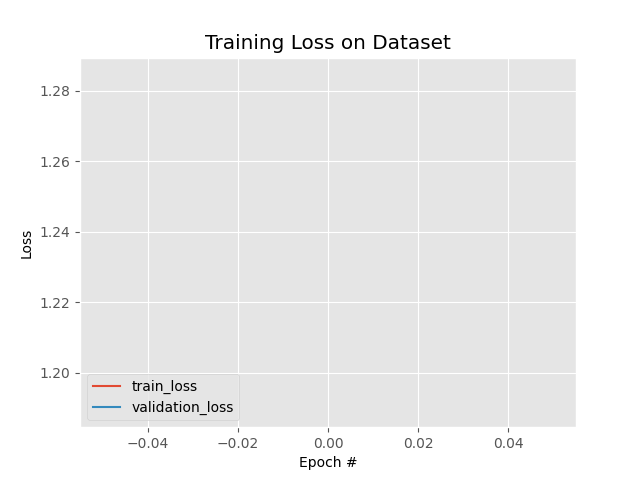
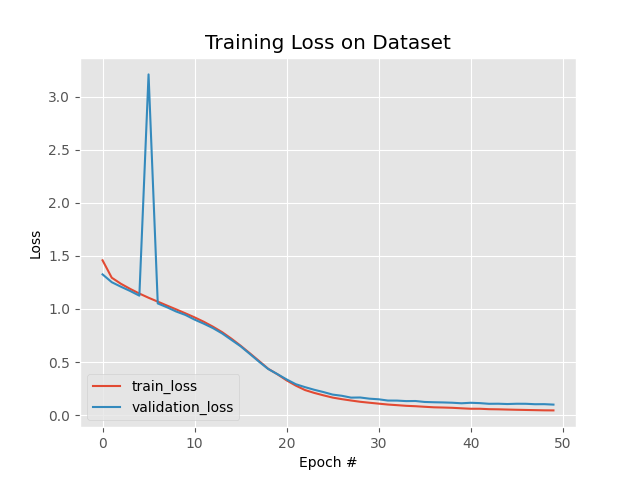
have two working models and test methods

diff --git a/test.py b/test.py
@@ -104,7 +104,10 @@ def write_metrics_to_file(metrics, len_test_x, json_path):
         "recall": metrics[2] / len_test_x,
         "precision": metrics[3] / len_test_x,
         "accuracy": metrics[4] / len_test_x,
-        "iou": metrics[5] / len_test_x
+        "iou": metrics[5] / len_test_x,
+        "H": H,
+        "W": W,
+        "model_name": MODEL_NAME,
     }
     out_file = open(json_path, "w")
 
@@ -168,8 +171,8 @@ def save_predicted_segmentation_images(y_true, y_pred, image, size, name):
     y_pred = 1 - y_pred
     y_true = 1 - y_true
 
-    white1 = np.ones((512, 512, 3), dtype = np.uint8) 
-    white2 = np.ones((512, 512, 3), dtype = np.uint8) 
+    white1 = np.ones((H, W, 3), dtype = np.uint8) 
+    white2 = np.ones((H, W, 3), dtype = np.uint8) 
     white1[y_pred == 0] = [1,255,1]
     white2[y_true == 0] = [1,255,1]
 

diff --git a/config.py b/config.py
@@ -9,15 +9,20 @@ device_ids = [0, 1, 2, 3]
 DATASET = '111_1111'
 
 ''' Set the hyperparameters for the model you want to train or test '''
-H = 512
-W = 512
+H = 255
+W = 255
 size = (H, W)
-batch_size = 4
-num_epochs = 1
+batch_size = 16
+num_epochs = 50
 lr = 1e-4
 
-''' Set the model to train/test'''
-MODEL_NAME = 'model'
+'''
+Set the model to train/test
+
+model: the model for training images with the size 512x512
+model2: the model for training images with the size 255x255
+'''
+MODEL_NAME = 'model2'
 
 ''' Set the data paths, these must be changes if you want to run the code on your own computer '''
 data_path ='C:/Users/ingvilrh/master_data/dataset_111_1111/train_images'
